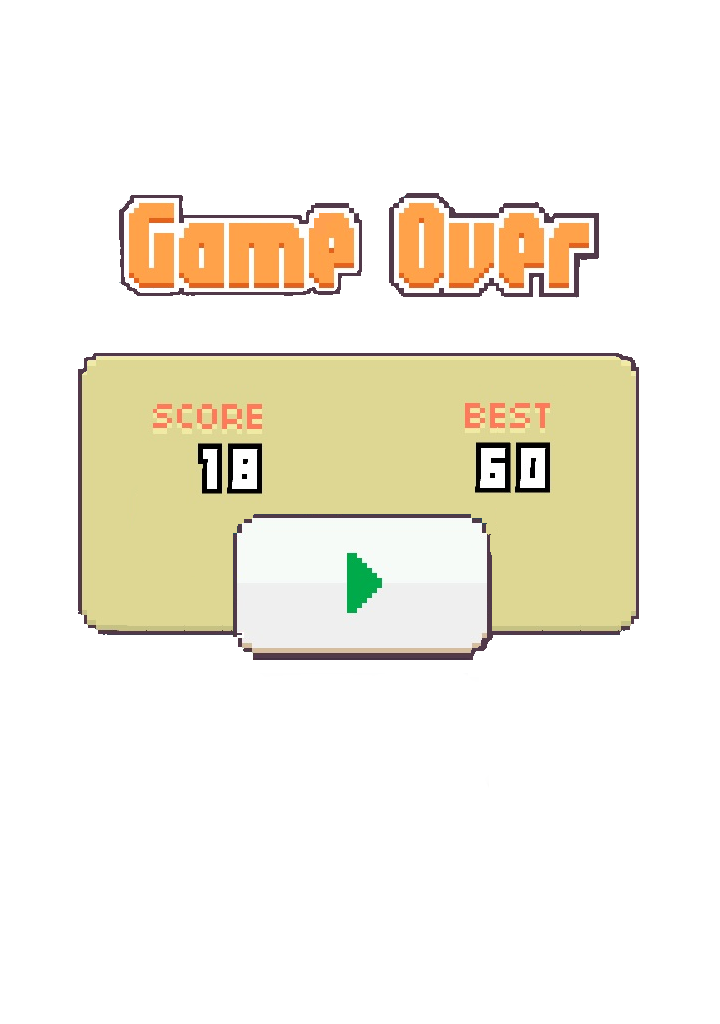
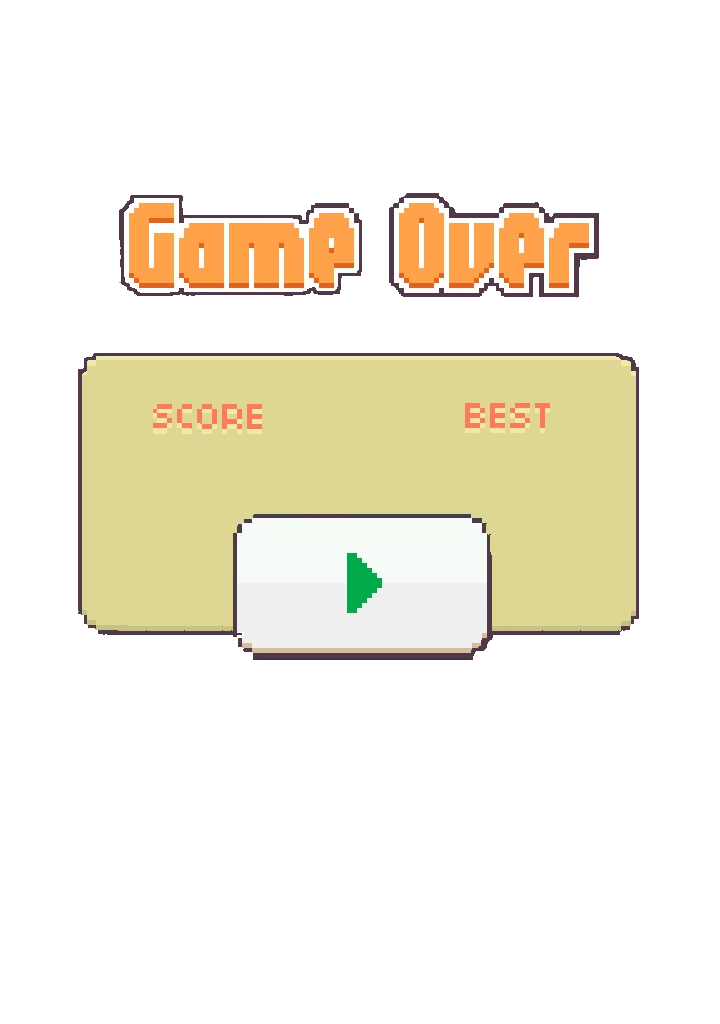
added score images and added highscore images

Changed region(s): [[0.6417, 0.4062, 0.7639, 0.5], [0.275, 0.4062, 0.3667, 0.5]]

diff --git a/src/main/java/com/rudransh/GamePanel.java b/src/main/java/com/rudransh/GamePanel.java
@@ -21,7 +21,7 @@ public class GamePanel extends JPanel implements Runnable {
     static final float BIRD_SIZE = (GAME_WIDTH/30);
     static final float PIPE_SPACING = (BIRD_SIZE*4);
     ArrayList<Pipe> pipes = new ArrayList<Pipe>();
-    Image[] numbersImage = new Image[10];
+    static Image[] numbersImage = new Image[10];
     GameBackground gameBackground;
     Thread gameThread;
     Image image;
@@ -31,7 +31,8 @@ public class GamePanel extends JPanel implements Runnable {
     GameOver gameOver;
     float topPipeLength;
     Bird bird;
-    int gameScore;
+    static int gameScore = 0;
+    static int highScore = 0;
 
     private enum GameState {
         MENU,
@@ -128,7 +129,7 @@ public class GamePanel extends JPanel implements Runnable {
         }
 
     }
-    public int[] intToArray(int n) {
+    public static int[] intToArray(int n) {
         int digits=0;
         int num = n;
         while(num>0){
@@ -145,7 +146,7 @@ public class GamePanel extends JPanel implements Runnable {
     }
     public void newPipe(boolean start) {
         random = new Random();
-        topPipeLength = random.nextInt(400);
+        topPipeLength = random.nextInt(1, 400);
         if(start) {
             pipes.add(new Pipe(GamePanel.GAME_WIDTH-(GamePanel.BIRD_SIZE*2)+pipes.size()*300, 0, GamePanel.BIRD_SIZE*2, topPipeLength, 0));
             pipes.add(new Pipe(GamePanel.GAME_WIDTH-(GamePanel.BIRD_SIZE*2)+(pipes.size()-1)*300, topPipeLength+PIPE_SPACING, GamePanel.BIRD_SIZE*2, GAME_WIDTH-PIPE_SPACING-topPipeLength, 1));
@@ -173,7 +174,7 @@ public class GamePanel extends JPanel implements Runnable {
             for (int i=pipes.size()-1;i>=0;i--) {
                 pipes.get(i).draw(g);
             }
-            int score = gameScore*50/41;
+            int score = gameScore/41;
             int[] scoreArray = intToArray(score);
             for(int i=0;i<scoreArray.length;i++){
                 int x;
@@ -256,6 +257,7 @@ public class GamePanel extends JPanel implements Runnable {
     }
     //executes when the game os over
     public void GameOverEnter() {
+        highScore = Math.max(highScore, gameScore);
         gameState = GameState.GAME_OVER;
         newGameOver();
         getInputMap().remove(KeyStroke.getKeyStroke("UP"));

diff --git a/src/main/java/com/rudransh/GameOver.java b/src/main/java/com/rudransh/GameOver.java
@@ -5,9 +5,11 @@ import java.awt.*;
 import java.awt.image.BufferedImage;
 import java.io.File;
 import java.io.IOException;
+import java.util.Arrays;
 
 public class GameOver extends Rectangle {
     BufferedImage gameOverImage;
+
     GameOver(){
         super(150, -130, 10, 10);
         try {
@@ -18,5 +20,26 @@ public class GameOver extends Rectangle {
     }
     public void draw(Graphics g) {
         g.drawImage(gameOverImage, x, y, null);
+        int score = GamePanel.gameScore/41;
+        int[] scoreArray = GamePanel.intToArray(score);
+        for(int i=0;i<scoreArray.length;i++){
+            int x;
+            if(i==0){
+                x=325;
+            }else x = 325 + i*30;
+            g.drawImage(GamePanel.numbersImage[scoreArray[i]], x, 310, null);
+        }
+        int[] highScoreArray = GamePanel.intToArray(GamePanel.highScore/41);
+        System.out.println(Arrays.toString(highScoreArray));
+        if(highScoreArray.length>0){
+            for(int i=0;i<highScoreArray.length;i++){
+                int x;
+                if(i==0){
+                    x=620;
+                }else x = 620 + i*30;
+                g.drawImage(GamePanel.numbersImage[highScoreArray[i]], x, 310, null);
+            }
+        }
+
     }
 }
